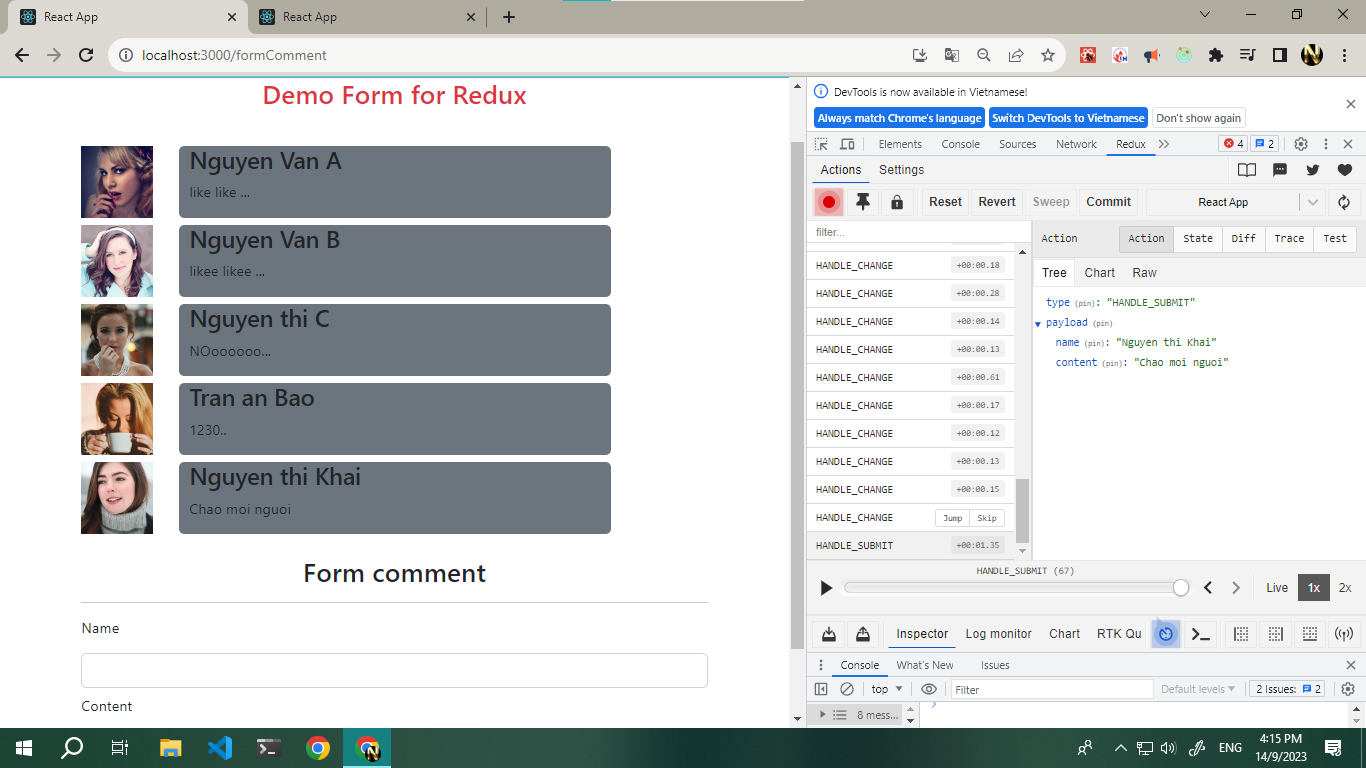
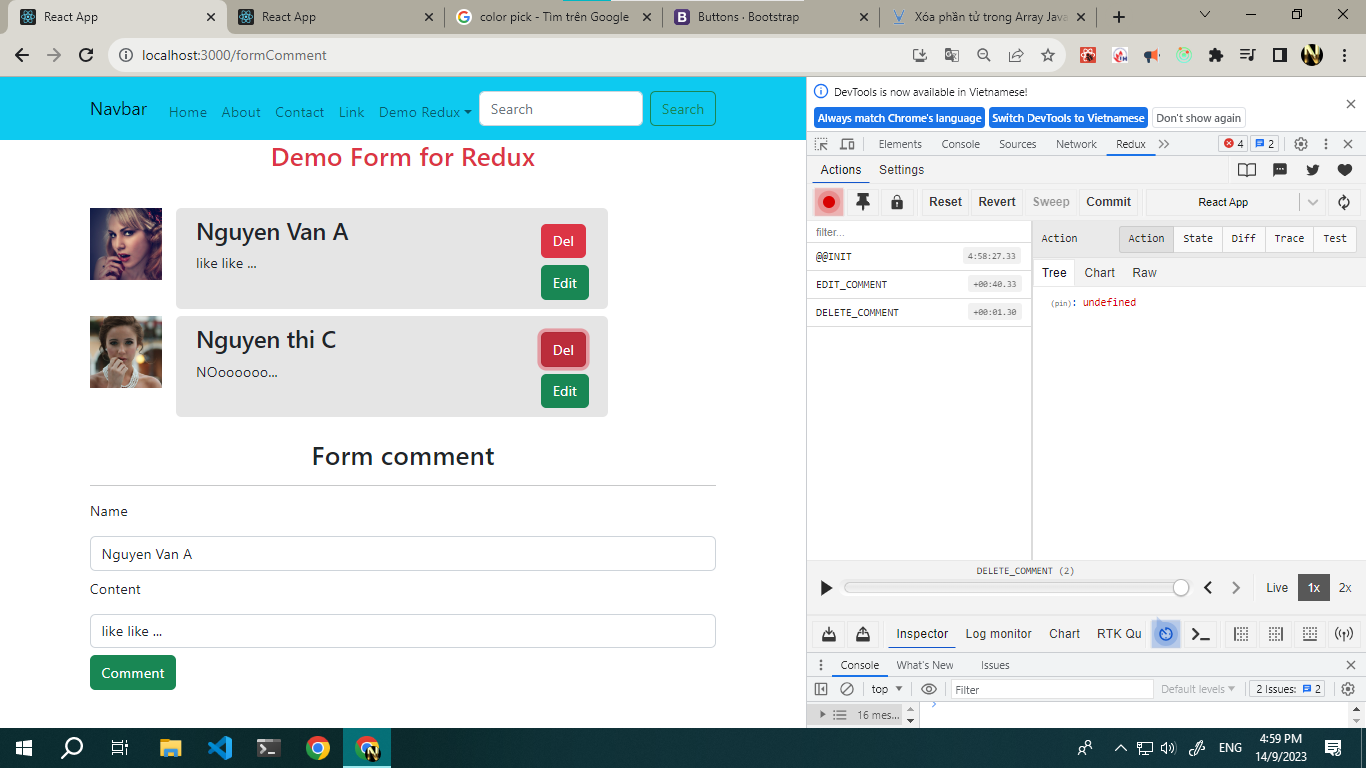
finish Del và btn Edit

diff --git a/demo-buoi8-redux/src/Redux/Reducers/commentReducers.jsx b/demo-buoi8-redux/src/Redux/Reducers/commentReducers.jsx
@@ -1,52 +1,75 @@
-
-
 const stateDefault = {
-    commentInfo:{
-        name: 'Tran an Bao',
-        content: '1230..'
-    },
-    arrComment:[
-        {name: 'Nguyen Van A', content: 'like like ...'},
-        {name: 'Nguyen Van B', content: 'likee likee ...'},
-        {name: 'Nguyen thi C', content: 'NOoooooo...'},
-    ]
-}
+  commentInfo: {
+    name: "Tran an Bao",
+    content: "1230..",
+  },
+  arrComment: [
+    { name: "Nguyen Van A", content: "like like ..." },
+    { name: "Nguyen Van B", content: "likee likee ..." },
+    { name: "Nguyen thi C", content: "NOoooooo..." },
+  ],
+};
 
-export const commentReducers = ( state = stateDefault, action ) => {
+export const commentReducers = (state = stateDefault, action) => {
+  switch (action.type) {
+    case "HANDLE_CHANGE":
+      // lay du lieu vua gui den
+      let { id, value } = action.payload;
+      // doi vs state la obj || arr thi phai  clone state ra
+      let commentInfoUpdate = { ...state.commentInfo };
+      // thay doi state
+      commentInfoUpdate[id] = value;
 
-    switch (action.type) {
-        case "HANDLE_CHANGE":
-            // lay du lieu vua gui den
-            let {id, value} = action.payload;
-            // doi vs state la obj || arr thi phai  clone state ra
-            let commentInfoUpdate = {...state.commentInfo}
-            // thay doi state
-            commentInfoUpdate[id] = value;
+      // gan ve state cu
+      state.commentInfo = commentInfoUpdate;
+      break;
+    case "HANDLE_SUBMIT":
+      //lay data gui len
+      let commentInfo = action.payload;
 
-            // gan ve state cu
-            state.commentInfo = commentInfoUpdate
-            break;
-        case 'HANDLE_SUBMIT':
-            //lay data gui len 
-            let commentInfo = action.payload;
-           
-            //lay  data cu
-            let arrCommentUpdate =  [...state.arrComment];
-            // them comment moi
-            arrCommentUpdate.push(commentInfo);
+      //lay  data cu
+      let arrCommentUpdate = [...state.arrComment];
+      // them comment moi
+      arrCommentUpdate.push(commentInfo);
 
-            //cap nhat vao arr state
-            state.arrComment = arrCommentUpdate
-            
-            // khoi phuc form nhap
-            state.commentInfo = {
-                name:'',
-                content:''
-            }
-            break;
-        default:
-            break;
+      //cap nhat vao arr state
+      state.arrComment = arrCommentUpdate;
+
+      // khoi phuc form nhap
+      state.commentInfo = {
+        name: "",
+        content: "",
+      };
+      break;
+
+    case "DELETE_COMMENT": {
+      let index = action.payload;
+      console.log(
+        "🚀 ~ file: commentReducers.jsx:48 ~ commentReducers ~ index:",
+        index
+      );
+
+      let arrCommentNew = [...state.arrComment];
+
+      arrCommentNew.splice(index, 1);
+      console.log(
+        "🚀 ~ file: commentReducers.jsx:53 ~ commentReducers ~ arrCommentNew:",
+        arrCommentNew
+      );
+
+      state.arrComment = arrCommentNew;
+      break;
     }
-    return {...state};
+    case "EDIT_COMMENT": {
+      // b1 lay vitri data can update o trong arr
+      let index = action.payload;
 
-}
+      // hiện thông tin cu lên form 
+      state.commentInfo = state.arrComment[index]
+      
+    }
+    default:
+      break;
+  }
+  return { ...state };
+};

diff --git a/demo-buoi8-redux/src/Page/DemoRedux/DemoFormComment/TableComment.jsx b/demo-buoi8-redux/src/Page/DemoRedux/DemoFormComment/TableComment.jsx
@@ -8,9 +8,8 @@ class TableComment extends Component {
   };
 
   render() {
+    let { arrComment } = this.props;
 
-    let{arrComment} = this.props;
-    
     return (
       <>
         {/* <img src=" https://i.pravatar.cc/?u=20" alt="..." height={300} /> */}
@@ -26,19 +25,57 @@ class TableComment extends Component {
         </div> */}
 
         {arrComment.map((item, index) => {
-          return <div className="row mt-2  " key={index}>
-          <div className="col-2">
-            <img src= {`https://i.pravatar.cc/?u=${item.name}`} lassName="rounded" alt="..." height={80} />
-          </div>
-          <div className="col-8 bg-secondary rounded">
-            <h3>{item.name}</h3>
-            <p>{item.content}</p>
-          </div>
-        </div>
+          console.log("🚀 ~ file: TableComment.jsx:28 ~ TableComment ~ {arrComment.map ~ index:", index)
+          return (
+            <div className="row mt-2  " key={index}>
+              <div className="col-2">
+                <img
+                  src={`https://i.pravatar.cc/?u=${item.name}`}
+                  lassName="rounded"
+                  alt="..."
+                  height={80}
+                />
+              </div>
+              <div
+                style={{ background: "rgba(0,0,0,0.1)", padding: "10px" }}
+                className="col-8  rounded row"
+              >
+                <div className="col-10">
+                  <h3>{item.name}</h3>
+                  <p>{item.content}</p>
+                </div>
+                <div className="col-2 mt-2">
+                  <button
+                    className="btn btn-danger"
+                    onClick={() => {
+                      const action = {
+                        type: "DELETE_COMMENT",
+                        payload: index,
+                      };
+
+                      this.props.dispatch(action);
+                    }}
+                  >
+                    Del
+                  </button>
+                  <button
+                    className="btn btn-success mt-2"
+                    onClick={() => {
+                      const action = {
+                        type: "EDIT_COMMENT",
+                        payload: index,
+                      };
+
+                      this.props.dispatch(action);
+                    }}
+                  >
+                    Edit
+                  </button>
+                </div>
+              </div>
+            </div>
+          );
         })}
-
-
-
       </>
     );
   }
